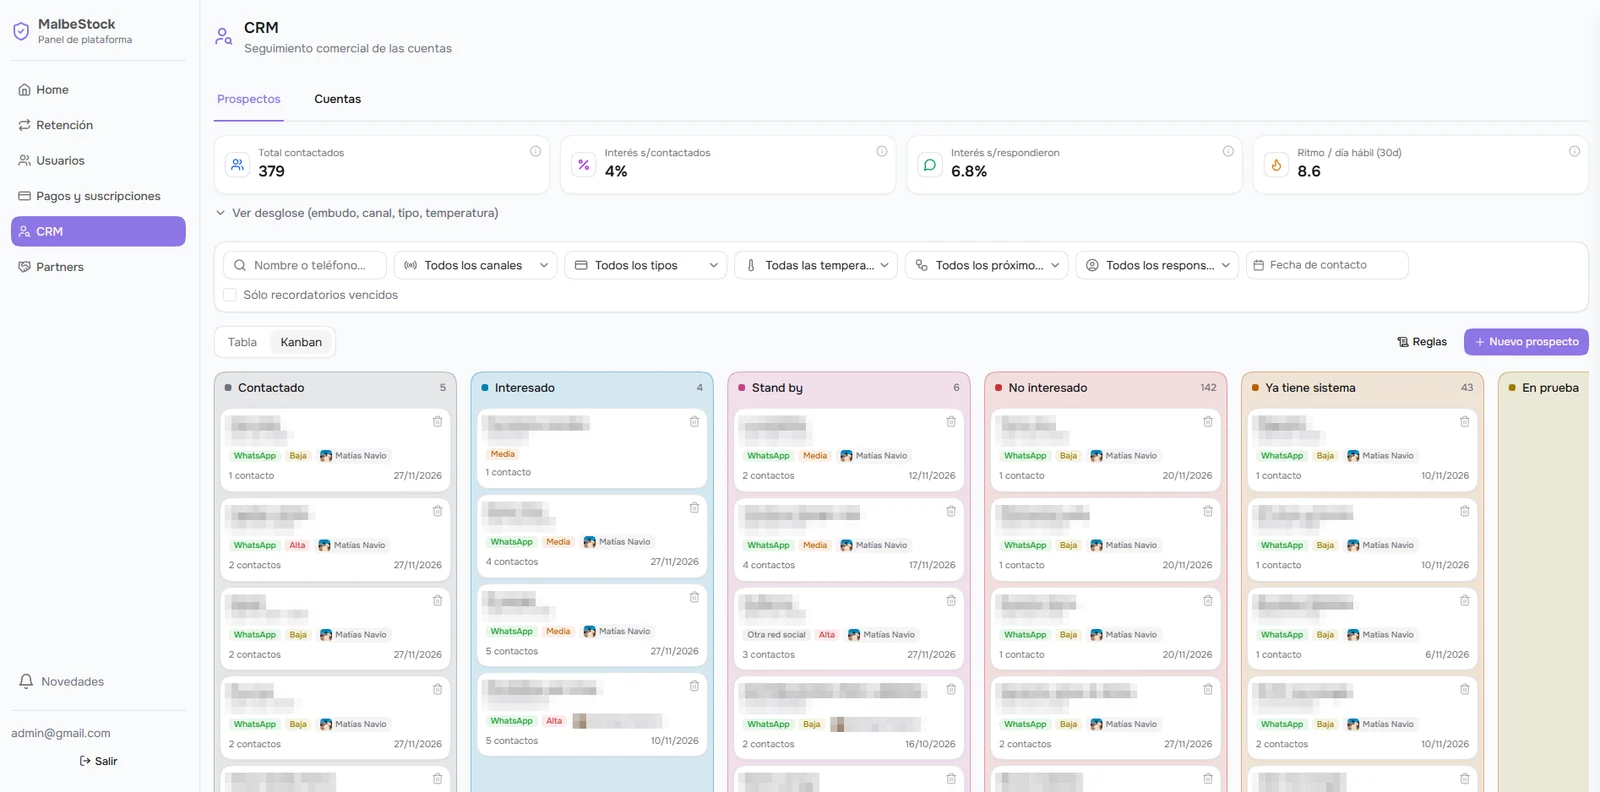
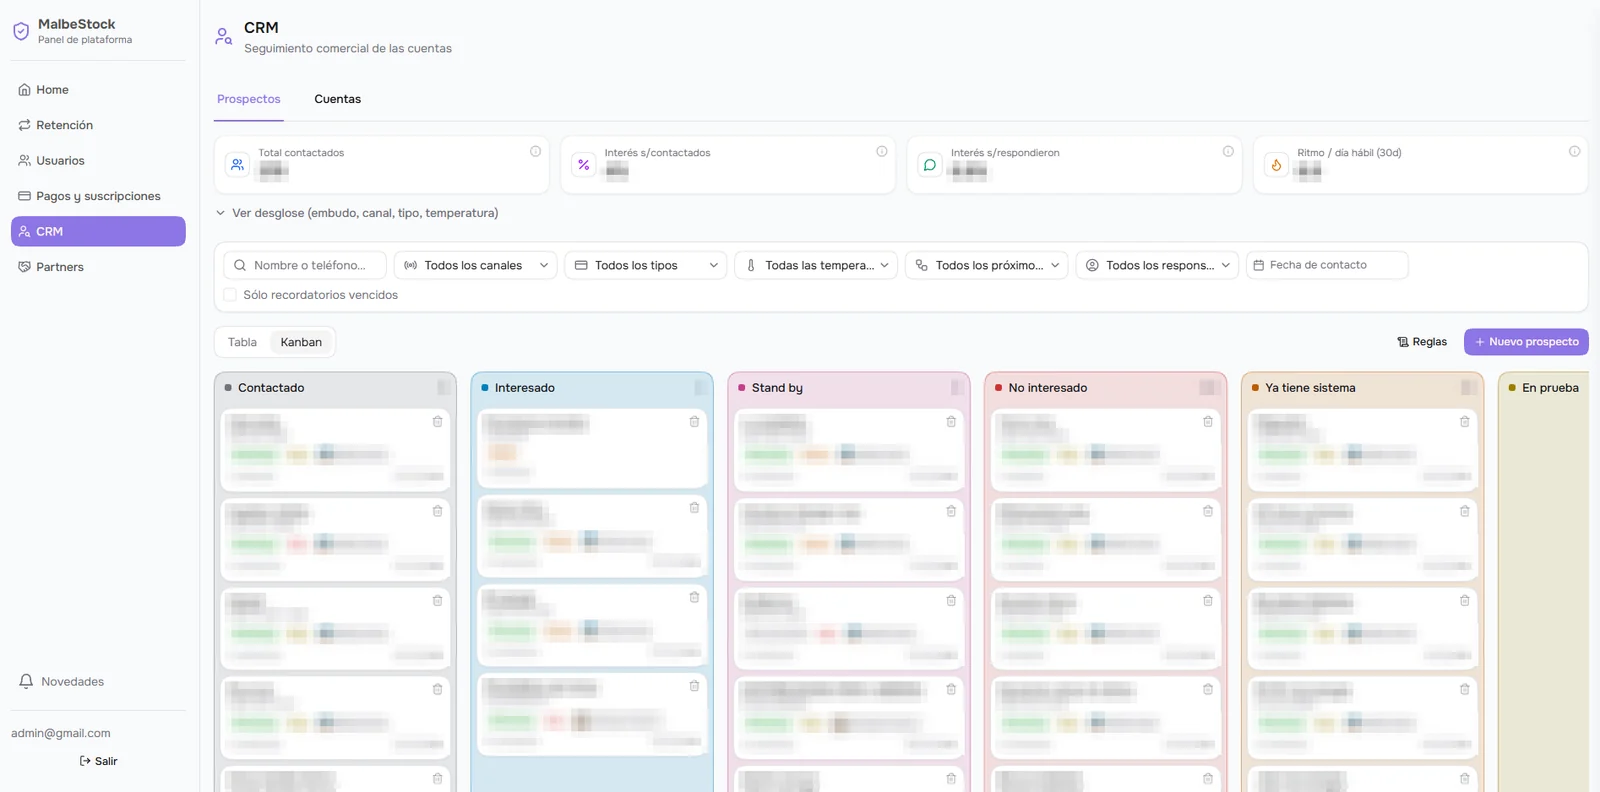
fix: difuminar todos los datos en las capturas del CRM

diff --git a/src/data/projects.ts b/src/data/projects.ts
@@ -368,25 +368,25 @@ export const projects: Project[] = [
         src: '/img/projects/malbestock-crm/crm.webp',
         width: 1600,
         height: 792,
-        alt: { es: 'Kanban de prospección con métricas de contacto (nombres y teléfonos difuminados)', en: 'Prospecting kanban with contact metrics (names and phones blurred)' },
+        alt: { es: 'Kanban de prospección por fases (datos difuminados)', en: 'Prospecting kanban by stage (data blurred)' },
       },
       {
         src: '/img/projects/malbestock-crm/pagos.webp',
         width: 1600,
         height: 795,
-        alt: { es: 'Pagos y suscripciones: MRR, cobros vencidos y próximos cobros (montos y clientes difuminados)', en: 'Billing and subscriptions: MRR, overdue and upcoming charges (amounts and customers blurred)' },
+        alt: { es: 'Pagos y suscripciones: MRR, cobros vencidos y próximos cobros (datos difuminados)', en: 'Billing and subscriptions: MRR, overdue and upcoming charges (data blurred)' },
       },
       {
         src: '/img/projects/malbestock-crm/estadisticas.webp',
         width: 1600,
         height: 791,
-        alt: { es: 'Estadísticas: embudo de cohortes y fuentes de tráfico', en: 'Analytics: cohort funnel and traffic sources' },
+        alt: { es: 'Estadísticas: embudo de cohortes y fuentes de tráfico (datos difuminados)', en: 'Analytics: cohort funnel and traffic sources (data blurred)' },
       },
       {
         src: '/img/projects/malbestock-crm/partners.webp',
         width: 1600,
         height: 790,
-        alt: { es: 'Partners con su código, registros y referidos (datos de contacto difuminados)', en: 'Partners with their code, sign-ups and referrals (contact details blurred)' },
+        alt: { es: 'Partners con su código, registros y referidos (datos difuminados)', en: 'Partners with their code, sign-ups and referrals (data blurred)' },
       },
     ],
   },
